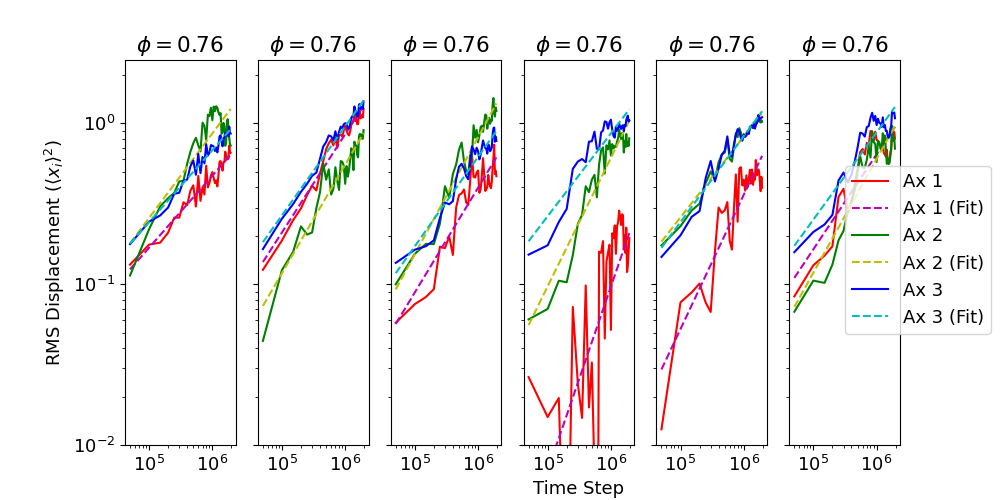
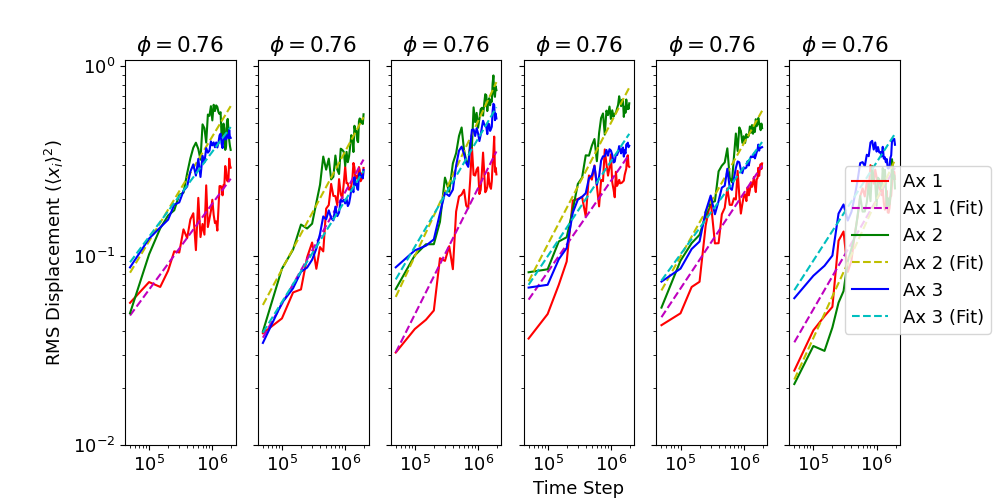
final diagonalisation corrections

diff --git a/Phase_Structure/Nunchucks/Fixed_Angle/Crystalline/No_Transition/diffusion_matrix.py b/Phase_Structure/Nunchucks/Fixed_Angle/Crystalline/No_Transition/diffusion_matrix.py
@@ -23,6 +23,15 @@ PLOT_BEST_FIT = True
 
 plt.rcParams.update({"font.size": 13})  # for figures to go into latex at halfwidth
 
+
+def label_maker(label, plot_index):
+    """For plotting - returns label if plot_index == 0, null otherwise"""
+    if plot_index == 0:  # for legend
+        return label
+    else:
+        return None
+
+
 # READ PARAMETER VALUES FROM LOG FILE
 
 file_name = "log.lammps"
@@ -255,13 +264,6 @@ for i, time in enumerate(time_range):  # interate over dump files
 
 
 # GENERATE DIFFUSION PLOTS
-def label_maker(label, plot_index):
-    """Returns label if plot_index == 0, null otherwise"""
-    if plot_index == 0:  # for legend
-        return label
-    else:
-        return None
-
 
 plot_list = range(1, run_num_tot, 1)  # runs to plot (inc step if too many runs)
 sampled_vol_frac = vol_frac(sampled_vol_values, mol_length, N_molecules)
@@ -271,7 +273,6 @@ for plot_index, data_index in enumerate(plot_list):
 
     #   DATA EXTRACTION
     eq_time_values = np.array(eq_range)
-    # eq_time_values[0] = eq_time_values[1]  # remove zero so log can be evaluated
 
     rms_disp_proj = np.zeros_like(rms_disp_values[data_index, :, :, 0])
     # only need a 3x1 vector for each time point in each sample, not a 3x3 matrix
@@ -281,12 +282,20 @@ for plot_index, data_index in enumerate(plot_list):
     # penultimate array used as final array is nans
     eigen_val, vec_basis = np.linalg.eig(final_displacement)
 
+    # # Alternative method based on average
+    # vec_basis_list = np.zeros((len(eq_range) - 2, 3, 3))
+    # for i in range(1, len(eq_range) - 2):
+    #     print(i)
+    #     eigen_val, vec_basis_list[i, :, :] = np.linalg.eig(
+    #         rms_disp_values[data_index, i, :, :]
+    #     )
+    # vec_basis = np.mean(vec_basis_list, axis=0)
+
     axis_labels = ["Ax 1", "Ax 2", "Ax 3"]  # until they have been identified
     # axis_labels = ["Director", "Bisector", "Normal"]  # once they have been identified
 
-    if (
-        USE_CARTESIAN_BASIS
-    ):  # Non-diagonalised case used for testing - override prev basis
+    if USE_CARTESIAN_BASIS:
+        # Non-diagonalised case used for testing - override prev basis
         vec_basis = np.identity(3)
         axis_labels = ["x", "y", "z"]
 
@@ -307,12 +316,8 @@ for plot_index, data_index in enumerate(plot_list):
     plot_data = np.abs(rms_disp_proj[1:-1, :])
     # remove end values as nan at end and zero at start, so log10 gives errors here
 
-    # print(plot_times)
-    # print(plot_data)
-
-    # rms_disp has values for all timesteps in sample. so apply the same dot operation to all vectors
     colours = ["r", "g", "b"]
-    colours_fit = ["m", "y", "c"]
+    colours_fit = ["m", "y", "c"]  # for plotting best fit lines
     for j in range(3):
         axs[plot_index].loglog(
             plot_times,
